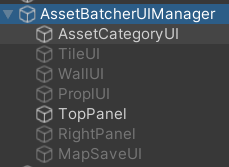
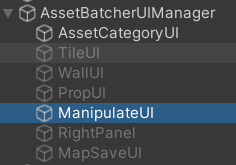
upload UI

diff --git a/AssetBatcher/Assets/Scripts/UI/AssetBatcher/ManipulateUI.cs b/AssetBatcher/Assets/Scripts/UI/AssetBatcher/ManipulateUI.cs
@@ -2,7 +2,7 @@ using UnityEngine;
 using UnityEngine.Events;
 using UnityEngine.UIElements;
 
-public class TopPanelUI : MonoBehaviour
+public class ManipulateUI : MonoBehaviour
 {
     [SerializeField]private UIDocument topPanelDocument;
 
